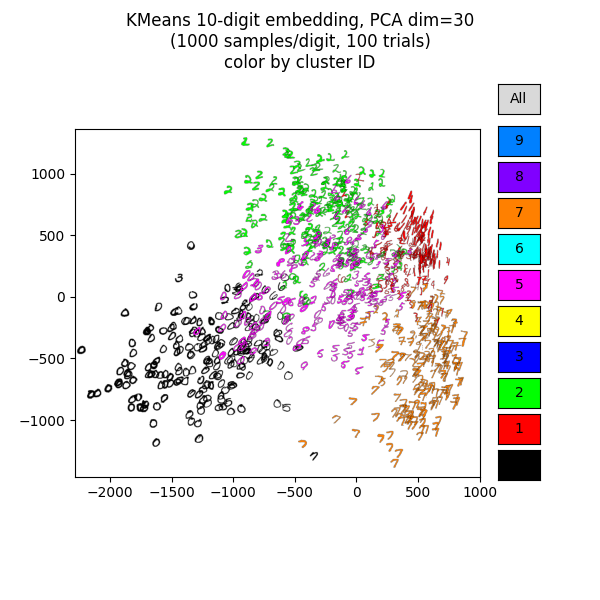
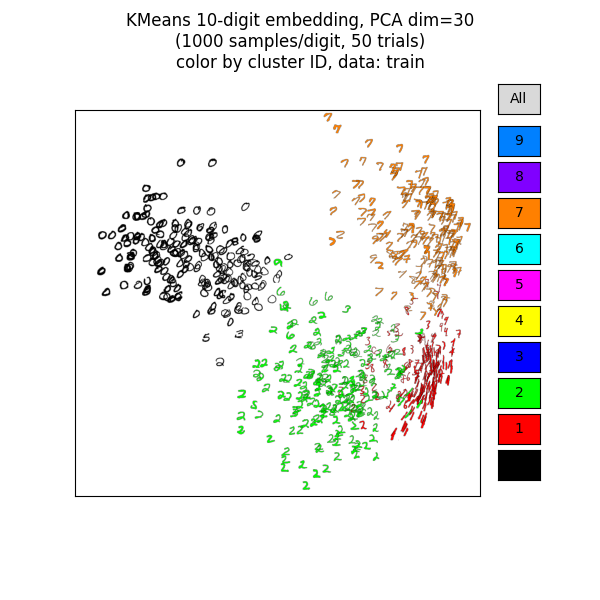
Added full cluster interface, digit-wise accuracy boxplot.  Next mnist_simgraph.

diff --git a/spectral_clustering/mnist_kmeans.py b/spectral_clustering/mnist_kmeans.py
@@ -10,7 +10,8 @@ from mnist_common import MNISTResult
 from mnist_data import MNISTData
 from clustering import KMeansAlgorithm
 from mnist_plots import (plot_pairwise_digit_confusion, plot_pairwise_clusterings,
-                         plot_extreme_pairs, plot_full_confusion, plot_full_embedding)
+                         plot_extreme_pairs, plot_full_confusion, plot_full_embedding,
+                         plot_pairwise_accuracy_boxplot)
 import pickle
 from multiprocessing import Pool, cpu_count
 import os
@@ -26,7 +27,7 @@ N_REP = 20
 N_SAMP = 1000
 N_TEST = 800
 N_BOOT = 50
-N_CPU = 10
+N_CPU = 1
 
 
 class KMeansFull(object):
@@ -86,13 +87,14 @@ class KMeansFull(object):
         """
         logging.info("Drawing figures...")
         # show embedding
-        # title = "KMeans 10-digit embedding, PCA dim=%i\n(%i samples/digit, %i trials)\ncolor by cluster ID" % (
-        #    self._dim, self._n_samples, self._n_bootstraps)
-        # plot_full_embedding(self._all_results, self._data, title, max_n_imgs=200, image_extent_frac=0.015)
+        which='train'
+        title = "KMeans 10-digit embedding, PCA dim=%i\n(%i samples/digit, %i trials)\ncolor by cluster ID, data: %s" % (
+            self._dim, self._n_samples, self._n_bootstraps,which)
+        plot_full_embedding(self._all_results, self._data, title, max_n_imgs=200, image_extent_frac=0.015,which=which)
         # calls plt.show() at the end
 
         # show confusion matrices & histograms in one figure
-        fig, ax = plt.subplots(2, 2, figsize=(5, 8))
+        fig, ax = plt.subplots(2, 2, figsize=(6, 8))
 
         #    train
         def _show_confusion(ax, results, which):
@@ -120,7 +122,7 @@ class KMeansFull(object):
 
         fig.suptitle("KMeans 10-digit classification, PCA dim=%i\n(%i samples/digit, %i trials)" % (
             self._dim, self._n_samples, self._n_bootstraps))
-
+        plt.tight_layout()
 
 class KMeansPairwise(object):
     def __init__(self, dim=DIM, n_rep=N_REP, n_samp=(N_SAMP, N_TEST), n_cpu=N_CPU):
@@ -163,6 +165,16 @@ class KMeansPairwise(object):
         return results
 
     def plot_results(self, prefix="KMeans"):
+
+        # show boxplot for each digit pair (if statistics exist)
+        if self._n_rep > 1:
+            which='test'
+            fig,ax = plt.subplots(figsize=(10,4))
+            title = "%s accuracy dist. by digit pair (PCA dim=%i)\n(%i samples/digit, %i trials, %s data)" % (
+                prefix, self._dim, self._n_samples, self._n_rep,which)
+            plot_pairwise_accuracy_boxplot(ax, self._all_results, title, which=which)
+            fig.tight_layout()
+
         # show pairwise clusterings for TEST data
         logging.info("Drawing figures...")
         fig, ax = plt.subplots(figsize=(7, 6))
@@ -183,9 +195,11 @@ class KMeansPairwise(object):
         # plt.show()
 
         # show best & worst pairs for TEST data
-        which='test'
-        title = "%s(pca=%i)" % (prefix, self._dim)
-        fig, ax = plot_extreme_pairs(self._all_results, self._data, n=3, title=title, which=which)
+       # which='test'
+       # title = "%s(pca=%i)" % (prefix, self._dim)
+       # fig, ax = plot_extreme_pairs(self._all_results, self._data, n=3, title=title, which=which)
+        
+        
        
 
 def _test_kmeans(work):
@@ -200,23 +214,26 @@ def _test_kmeans(work):
     x, y = work['data'].get_data('train')
     k = np.unique(y).size
     best_result = None
+    accuracies = {'train': [], 'test': []}
     for _ in range(n_trials):
         km = KMeansAlgorithm(k)
         km.fit(x)
         result = MNISTResult(k, km, work['data'])
         if best_result is None or result.accuracy['train'] > best_result.accuracy['train']:
             best_result = result
+        accuracies['train'].append(result.accuracy['train'])
+        accuracies['test'].append(result.accuracy['test'])
 
     if work['aux'] is not None:
         print("Tested K-Means({}):  {} samples, {} times, best results: info={}.  accuracy={}".format(
             k, len(y), n_trials, work['aux'], best_result.accuracy))
-
+    best_result.set_info('accuracies', accuracies)
     return best_result
 
 
 class FisherPairwise(KMeansPairwise):
-    def __init__(self, dim=DIM, n_samp=N_SAMP):
-        super().__init__(dim, 0, n_samp, n_cpu=1)
+    def __init__(self, dim=DIM, n_samp=(N_SAMP, N_TEST)):
+        super().__init__(dim, 1, n_samp, n_cpu=1)
 
     def _init_data(self):
         return load_cached(self._get_fisher_results, "Fisher_pairwise_n=%i.pkl" % (self._n_samples))
@@ -235,8 +252,14 @@ class FisherPairwise(KMeansPairwise):
 def _test_fisher(work):
     data = work['data']
     model = FisherLDA()
-    model.fit(data[0], data[1])
-    result = MNISTResult(2, model, data[0], data[1], sample_indices=work['inds'], aux=work['aux'])
+    x, y = data.get_data('train')
+    labels = np.unique(y)
+    bin_labels = np.zeros(y.shape)
+    bin_labels[y == labels[0]] = 0
+    bin_labels[y == labels[1]] = 1
+    model.fit(x,bin_labels)
+    #import ipdb; ipdb.set_trace()
+    result = MNISTResult(2, model, data)
 
     print("Tested Fisher LDA on digits %s:  (Accuracy:  %s)" % (
         work['aux'], result.accuracy))
@@ -248,14 +271,14 @@ if __name__ == "__main__":
     logging.info("Running KMeansPairwise.")
 
 
-    km = KMeansPairwise()
-    km.plot_results()
-    #plt.show()
-
-    km = KMeansFull()
-    #km.plot_results()
+    # km = KMeansPairwise(n_rep=200)
+    # km.plot_results()
     # plt.show()
 
-    # f = FisherPairwise()
-    # f.plot_results()
+    # km = KMeansFull()
+    # km.plot_results()
+    # plt.show()
+
+    f = FisherPairwise()
+    f.plot_results()
     plt.show()

diff --git a/spectral_clustering/mnist_plots.py b/spectral_clustering/mnist_plots.py
@@ -172,7 +172,7 @@ def plot_extreme_pairs(results, data, n=3, title=None, which='test'):
     return fig, axes
 
 
-def plot_full_embedding(results, data, title, **kwargs):
+def plot_full_embedding(results, data, title, which='train',**kwargs):
     """
     Plot the full embedding of all digits, color-coded by the best result.
     :param ax: matplotlib axis
@@ -183,12 +183,18 @@ def plot_full_embedding(results, data, title, **kwargs):
     ax_data = fig.add_subplot()
     fig.subplots_adjust(right=.8)
 
-    best_result = max(results, key=lambda res: res.accuracy)
-    best_labels = best_result.pred_labels
-    true_labels = best_result.true_labels
-    indices = best_result.inds
-    all_data = np.vstack([data.get_digit(i)[indices[i]] for i in range(10)])
-    all_imgs = np.vstack([data.get_images(i)[indices[i]] for i in range(10)])
+    best_result = max(results, key=lambda res: res.accuracy[which])
+
+
+    best_labels = best_result.pred_labels[which]
+    #true_labels = best_result.true_labels[which]
+    indices = best_result.inds[which]
+    if which == 'train':
+        all_data = np.vstack([data.train[i][indices[i]] for i in range(10)])
+    else:
+        all_data = np.vstack([data.test[i][indices[i]] for i in range(10)])
+    all_imgs = all_data.reshape(-1, 28, 28)
+
     artists, colors = show_digit_cluster_collage_full(ax_data, all_imgs, all_data, best_labels, **kwargs)
     # extract colors for each digit
 
@@ -231,6 +237,9 @@ def plot_full_embedding(results, data, title, **kwargs):
     button.on_clicked(lambda event: _toggle_all())
     buttons.append(button)
     plt.suptitle(title)
+    # turn off ticks
+    ax_data.set_xticks([])
+    ax_data.set_yticks([])
 
 
 def show_digit_cluster_collage_full(ax, images, points, true_labels, max_n_imgs=100, image_extent_frac=0.01):
@@ -348,6 +357,28 @@ def show_digit_cluster_collage_binary(ax, images, points, pred_labels, true_labe
     ax[1].set_yticks([])
     ax[0].set_ylabel("Accuracy: %.3f" % accuracy)
 
+
+def plot_pairwise_accuracy_boxplot(ax, results,title, which='test'):
+    """
+    Plot the pairwise accuracy as a boxplot.
+    :param ax: matplotlib axis
+    :param results: list of MNISTResult objects
+    """
+    accs = [res.get_info('accuracies')[which] for res in results]
+    pairs = [res.digits for res in results]
+    ax.boxplot(accs)
+    ax.set_xticklabels(["%i - %i" % (pair[0], pair[1]) for pair in pairs], rotation=90)
+    ax.set_ylabel("Accuracy")
+    ax.set_title(title)
+    ax.grid(axis='both')
+
+
+
+
+
+#######################################################
+# Testing functions
+#######################################################
 
 def test_show_digit_cluster_collage_binary():
     # making test data

diff --git a/spectral_clustering/mnist_common.py b/spectral_clustering/mnist_common.py
@@ -86,6 +86,16 @@ class MNISTResult(object):
 
         self.accuracy = self._get_accuracy()
 
+        self._info = {}  # for storing additional plotting info
+
+    def get_info(self, name):
+        if name not in self._info:
+            return None
+        return self._info.get(name, None)
+    def set_info(self, name, value):    
+        self._info[name] = value
+
+
     def _get_cluster_labels(self, ids, labels):
         """
         Cluster IDs are in [0, k-1], labels are one of self.digits,

diff --git a/spectral_clustering/fisher_lda.py b/spectral_clustering/fisher_lda.py
@@ -49,7 +49,7 @@ class FisherLDA(object):
         :param x: data points (N x D)
         :return: projected data points (N)
         """
-        return x @ self.w > self.threshold
+        return (x @ self.w > self.threshold).astype(int)
     
     def get_k(self):
         # for compatibility with clustering algorithms
